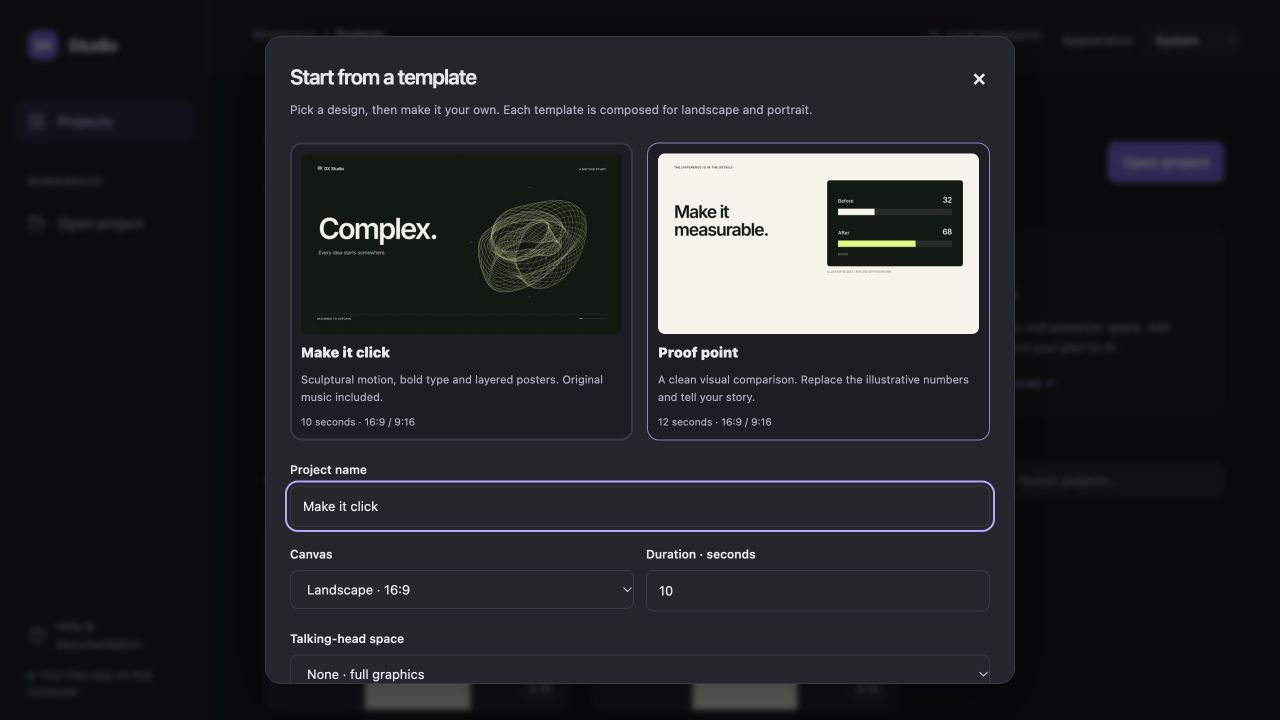
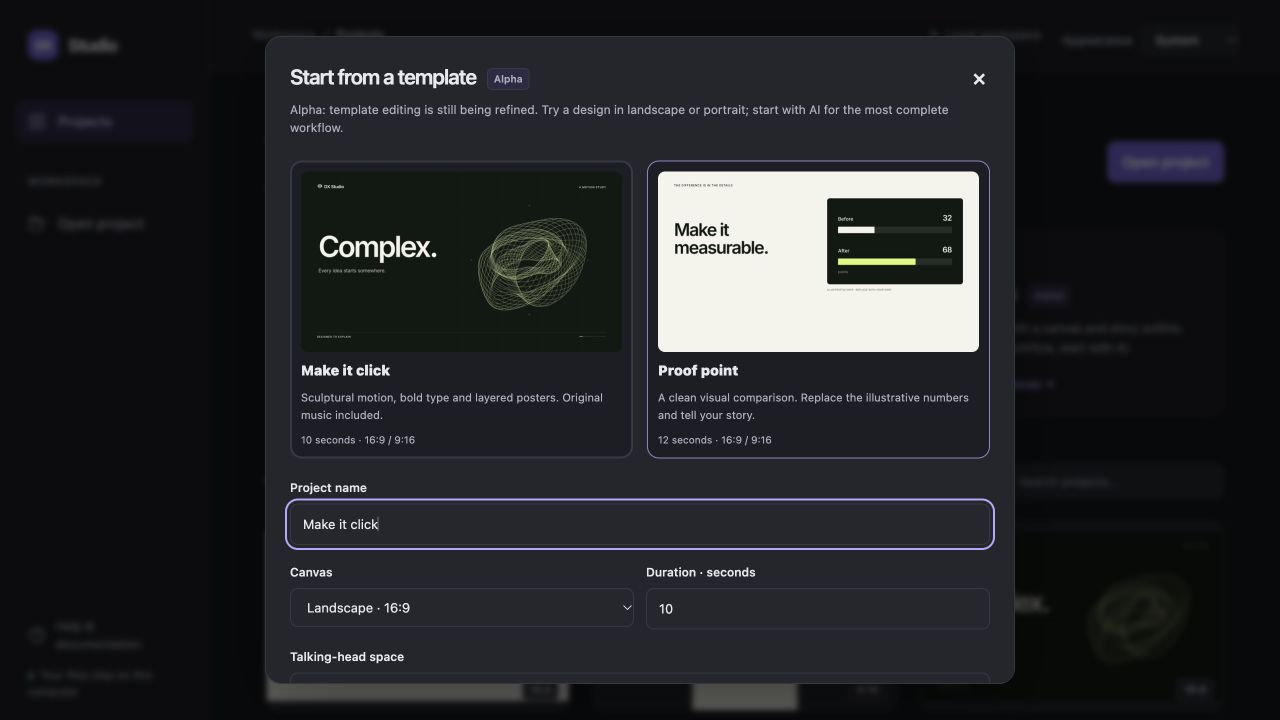
Guide AI-first creation and mark experimental starts Alpha (#22)

diff --git a/dx_studio/home.html b/dx_studio/home.html
@@ -117,10 +117,13 @@ textarea{font:inherit;width:100%;border:1px solid var(--line);border-radius:9px;
 .start-path{display:flex;flex-direction:column;align-items:flex-start;text-align:left;padding:22px;gap:12px;background:var(--panel,#fff);border-radius:14px;font-weight:400;transition:border-color .15s,transform .15s}
 .start-path:hover{border-color:var(--accent);transform:translateY(-2px)}
 .path-number{color:var(--accent);font-size:11px;letter-spacing:.06em}.start-path strong{font-size:16px;font-weight:600;letter-spacing:-.03em}.start-path>span:not(.path-number){font-size:12px;color:var(--muted);line-height:1.65;max-width:28em}.start-path>b{font-size:11px;font-weight:550;margin-top:auto;padding-top:6px;color:var(--accent)}
-#aiStartDialog{width:min(660px,94vw)}.workflow-steps{padding-left:20px;font-size:13px}.workflow-steps li{padding:0 0 18px 7px}.workflow-steps span{display:block;color:var(--muted);font-size:12px;margin-top:5px}#aiStartDialog a{color:var(--accent);font-size:12px}
+#aiStartDialog{width:min(760px,94vw);max-height:90vh;overflow:hidden}#aiStartDialog[open]{display:flex;flex-direction:column}#aiStartDialog>.dialog-header,#aiStartDialog>.ai-intro,#aiStartDialog>.ai-step-nav,#aiStartMessage,#aiStartDialog>.ai-footer{flex-shrink:0}#aiStartDialog>.ai-intro{margin:6px 0 0}#aiStartDialog a{color:var(--accent);font-size:12px}.ai-step{min-height:0;min-width:0;overflow:auto;overflow-x:hidden;scrollbar-gutter:stable;flex:1 1 auto;padding-right:8px}.ai-step p{margin:8px 0 14px}
 #createDialog:has(#templatePicker:not([hidden])){width:min(750px,94vw)}.template-picker{display:grid;grid-template-columns:1fr 1fr;gap:14px;margin:20px 0}.template-card{display:flex;flex-direction:column;gap:8px;text-align:left;padding:10px;border-radius:12px;background:var(--panel,#fff)}.template-card img{width:100%;aspect-ratio:16/9;object-fit:cover;border-radius:7px}.template-card strong{font-size:14px}.template-card span{font-size:11px;font-weight:400;color:var(--muted);line-height:1.6}.template-card small{font-size:10px;font-weight:400;color:var(--muted)}.template-card.selected{border:2px solid var(--accent);padding:9px;background:var(--soft)}
 @media(max-width:850px){.start-paths{grid-template-columns:1fr;gap:10px}.start-path{padding:16px}.start-path>b{padding-top:0}.heading{margin-bottom:30px}}
 
+.alpha-tag,.recommended-tag{display:inline-flex;align-items:center;vertical-align:middle;font-size:10px;font-weight:600;line-height:1.4;letter-spacing:.02em;border-radius:5px;padding:3px 6px;margin-left:7px;white-space:nowrap}.alpha-tag{color:var(--muted);background:var(--soft);border:1px solid var(--line)}.recommended-tag{color:var(--accent);background:var(--soft)}
+.ai-intro{font-size:13px;line-height:1.7;color:var(--muted)}.ai-step-nav{display:grid;grid-template-columns:repeat(4,minmax(0,1fr));gap:6px;margin:16px 0}.ai-step-tab{padding:10px 6px;font-size:11px;font-weight:500;background:transparent;text-align:left}.ai-step-tab[aria-selected=true]{background:var(--soft);border-color:var(--accent);color:var(--accent)}.ai-step-tab span{display:block;color:var(--muted);font-size:10px;margin-bottom:3px}.ai-step h3{font-size:18px;letter-spacing:-.025em;margin:0 0 10px}.ai-step p,.ai-step li{font-size:12px;line-height:1.75}.ai-step ul,.ai-step ol{padding-left:20px}.ai-resource-links{display:flex;flex-wrap:wrap;align-items:center;gap:14px;margin:16px 0}.ai-resource-links a.primary{background:var(--accent);border-radius:8px;padding:9px 12px;color:white!important;text-decoration:none;font-weight:550}.ai-step details{font-size:12px;margin-top:20px}.ai-step details summary{cursor:pointer;color:var(--muted)}.ai-brief-grid{display:grid;grid-template-columns:minmax(0,1fr) minmax(0,1fr);gap:0 14px}.ai-brief-grid>*{min-width:0}.ai-brief-grid input,.ai-brief-grid select{min-width:0}.ai-brief-grid .full{grid-column:1/-1}.ai-brief-grid label{margin-top:12px}.ai-deliverables{padding:14px 16px;border:1px solid var(--line);border-radius:10px;margin:16px 0}.ai-deliverables p{margin:5px 0}.ai-deliverables code{font-size:11px;overflow-wrap:anywhere}.ai-footer{display:flex;align-items:center;justify-content:space-between;gap:12px;padding-top:12px;margin-top:16px;border-top:1px solid var(--line)}.ai-footer .dialog-actions{margin:0;padding:0;flex-wrap:wrap}.ai-step-status{font-size:11px;color:var(--muted)}#aiStartMessage{font-size:12px;min-height:0}#createTitle .alpha-tag{letter-spacing:0;vertical-align:middle}
+@media(max-width:650px){.ai-brief-grid{grid-template-columns:1fr}.ai-step-nav{grid-template-columns:1fr 1fr}.ai-footer{align-items:flex-start;flex-wrap:wrap}}
 [hidden]{display:none!important}
 </style>
 <link rel="stylesheet" href="/theme.css">
@@ -138,20 +141,55 @@ textarea{font:inherit;width:100%;border:1px solid var(--line);border-radius:9px;
 <main>
  <div class="heading"><div><h1>Your projects</h1><p class="muted">A clear starting point for your next story.</p></div><div class="actions"><button class="primary" data-open="openDialog">Open project</button></div></div>
  <section class="start-paths" aria-label="Start a video">
-  <button class="start-path" data-open="aiStartDialog"><span class="path-number">01</span><strong>Create with AI <span aria-hidden="true">↗</span></strong><span>Use the skill in your assistant. Bring the editable project here to finish.</span><b>See the workflow →</b></button>
-  <button class="start-path" id="startTemplates"><span class="path-number">02</span><strong>Start from a template</strong><span>Pick a finished design. Change the words, colours and layers.</span><b>Browse templates →</b></button>
-  <button class="start-path" id="startBlank"><span class="path-number">03</span><strong>Start blank</strong><span>Set the canvas and presenter space. Add titles, then hand your plan to AI.</span><b>Set up your canvas →</b></button>
+  <button class="start-path" data-open="aiStartDialog"><span class="path-number">01</span><strong>Create with AI <span class="recommended-tag">Recommended</span></strong><span>Use the skill in your assistant. Bring the editable project here to finish.</span><b>See the workflow →</b></button>
+  <button class="start-path" id="startTemplates"><span class="path-number">02</span><strong>Start from a template <span class="alpha-tag">Alpha</span></strong><span>Try an editable design. This starting path is still being refined.</span><b>Browse templates →</b></button>
+  <button class="start-path" id="startBlank"><span class="path-number">03</span><strong>Start blank <span class="alpha-tag">Alpha</span></strong><span>Experiment with a canvas and story outline. For the full workflow, start with AI.</span><b>Set up your canvas →</b></button>
  </section>
  <div class="toolbar"><div class="tabs">Recent projects <span class="count" id="projectCount">0</span></div><div class="search"><svg viewBox="0 0 24 24"><circle cx="10.5" cy="10.5" r="6.5"/><path d="m16 16 4 4"/></svg><input type="search" id="search" placeholder="Search projects…" aria-label="Search projects"></div></div>
  <div class="projects" id="projects"></div><div class="message" id="libraryMessage" role="status"></div>
 </main></div></div>
-<dialog id="aiStartDialog" aria-labelledby="aiStartTitle"><div class="dialog-header"><h2 id="aiStartTitle">Create with your AI assistant</h2><button class="close" data-close="aiStartDialog" aria-label="Close AI workflow">×</button></div>
- <p>DX Studio is where you finish the video. Your assistant creates and revises the editable project.</p>
- <ol class="workflow-steps"><li><b>Give your assistant the DX Studio video skill.</b><span>Use a coding environment that can run Python, inspect images and access a project folder you choose.</span></li><li><b>Describe the video and ask for an editable project.</b><span>Specify the audience, duration, format and talking-head space. Bring your script, voice or footage when available.</span></li><li><b>Open the project here. Continue in the same chat.</b><span>For another AI edit, use <b>Continue with AI</b> in the editor. Share its prompt and project folder. DX will notice file changes and offer a reload.</span></li></ol>
- <a href="https://github.com/joyjophin/dx-studio/blob/main/SKILL.md" target="_blank" rel="noopener">Get the skill and resources ↗</a>
- <label for="aiStarterPrompt">A prompt to get started</label><textarea id="aiStarterPrompt" rows="7" readonly>Use the DX Studio video skill to create a 30-second 9:16 explainer about [my topic] for [my audience]. Use [my visual style] and leave [my presenter position, or none] clear. Create the editable project in a folder I can open locally. Deliver the project folder, a portable project ZIP and an MP4. Keep each title, graphic and caption editable. Tell me the full project folder path when it is ready.</textarea>
- <div class="open-note">The same chat keeps creative context; it does not grant file access. Give your assistant access to the project folder, or exchange portable project ZIPs. This editor does not send anything to an AI provider.</div>
- <div id="aiStartMessage" class="message" role="status"></div><div class="dialog-actions"><button id="copyStarterPrompt" type="button">Copy prompt</button><button id="openAIProject" class="primary" type="button">Open my AI project</button></div>
+<dialog id="aiStartDialog" aria-labelledby="aiStartTitle" aria-describedby="aiStartIntro"><div class="dialog-header"><h2 id="aiStartTitle">Create with your AI assistant</h2><button class="close" data-close="aiStartDialog" aria-label="Close AI workflow">×</button></div>
+ <p class="ai-intro" id="aiStartIntro">Your assistant creates the video in its own coding workspace. DX Editor opens the editable project so you can refine it and export. Follow these four steps at your own pace.</p>
+ <div class="ai-step-nav" role="tablist" aria-label="AI creation walkthrough">
+  <button class="ai-step-tab" id="aiTab0" role="tab" aria-controls="aiStep0" aria-selected="true" data-ai-step="0"><span>01</span>Set up</button>
+  <button class="ai-step-tab" id="aiTab1" role="tab" aria-controls="aiStep1" aria-selected="false" data-ai-step="1"><span>02</span>Write your brief</button>
+  <button class="ai-step-tab" id="aiTab2" role="tab" aria-controls="aiStep2" aria-selected="false" data-ai-step="2"><span>03</span>Open &amp; edit</button>
+  <button class="ai-step-tab" id="aiTab3" role="tab" aria-controls="aiStep3" aria-selected="false" data-ai-step="3"><span>04</span>Continue with AI</button>
+ </div>
+ <section class="ai-step" id="aiStep0" role="tabpanel" aria-labelledby="aiTab0">
+  <h3>Give your assistant the kit</h3>
+  <p>Use an assistant workspace that can <b>run Python, inspect rendered images, and read/write a project folder you share</b>. A text-only chat can help write a script, but cannot verify a finished video.</p>
+  <div class="ai-resource-links"><a class="primary" href="https://github.com/joyjophin/dx-studio/releases/latest/download/dx-studio-video.zip">Download the skill ZIP</a><a href="https://github.com/joyjophin/dx-studio/blob/main/SKILL.md" target="_blank" rel="noopener">Read the skill ↗</a></div>
+  <ol><li>Extract the ZIP and keep its resources together. If your assistant supports skills, add it using that assistant’s skill setup.</li><li>Otherwise, share the extracted kit folder and ask your assistant to read <b>SKILL.md</b> and its linked resources.</li><li>Choose a project folder your assistant can write to. The kit needs Python, Cairo and FFmpeg; ask the assistant to follow <b>docs/INSTALL.md</b> in its workspace.</li></ol>
+  <details><summary>How do I check whether my assistant can do this?</summary><p>Ask: “Can you run Python, inspect rendered images, and read/write the project folder I share? Use the DX Studio kit and tell me if a dependency is missing.” Sharing this chat alone does not grant file access.</p></details>
+ </section>
+ <section class="ai-step" id="aiStep1" role="tabpanel" aria-labelledby="aiTab1" hidden>
+  <h3>Start with a useful brief</h3><p>Fill in what you know. This builds a prompt to copy into your assistant; DX Studio does not generate or send it for you.</p>
+  <div class="ai-brief-grid">
+   <div class="full"><label for="aiTopic">What is the video about?</label><input id="aiTopic" placeholder="e.g. Why password managers make signing in safer" maxlength="1000"></div>
+   <div><label for="aiAudience">Who is it for?</label><input id="aiAudience" value="Curious beginners" maxlength="300"></div>
+   <div><label for="aiDuration">Length · seconds</label><input id="aiDuration" type="number" required value="30" min="5" max="3600" step="1"></div>
+   <div><label for="aiFormat">Format</label><select id="aiFormat"><option value="9:16">Portrait · 9:16</option><option value="16:9">Landscape · 16:9</option></select></div>
+   <div><label for="aiPresenter">Talking-head space</label><select id="aiPresenter"><option value="none">None · full graphics</option><option value="bottom-left">Bottom-left corner</option><option value="bottom-right">Bottom-right corner</option><option value="left-half">Left half</option><option value="right-half">Right half</option><option value="bottom-band">Bottom band</option></select></div>
+  </div>
+  <details><summary>Style, narration and source material</summary><label for="aiStyle">Visual direction</label><input id="aiStyle" placeholder="e.g. Clean editorial graphics with bold type" maxlength="1000"><label for="aiAssets">What will you provide?</label><select id="aiAssets"><option value="none">No recordings or footage yet</option><option value="voice">My recorded narration</option><option value="media">My script, screenshots or footage</option></select><p>Attach those files in your assistant’s workspace. This walkthrough does not upload them.</p></details>
+  <details class="ai-prompt-preview"><summary>Preview or edit your starter prompt</summary><label for="aiStarterPrompt">Your starter prompt · editable</label><textarea id="aiStarterPrompt" rows="8" aria-describedby="aiPromptHint"></textarea><p id="aiPromptHint">Copy this into your assistant after sharing the kit. You can edit the prompt directly; changing the brief fields rebuilds it.</p></details>
+ </section>
+ <section class="ai-step" id="aiStep2" role="tabpanel" aria-labelledby="aiTab2" hidden>
+  <h3>Bring back the project, then make it yours</h3>
+  <p>Wait for your assistant to finish and ask it for the full project folder path. You need the <b>editable project</b> as well as the video.</p>
+  <div class="ai-deliverables"><p><b>Editable folder</b> — contains <code>project.json</code>, the scene source and assets. Saved edits may also appear in <code>settings.json</code>.</p><p><b>MP4</b> — watch and share the finished video.</p><p><b>Portable project ZIP</b> — move the editable project between workspaces or computers.</p></div>
+  <ol><li>If you receive a ZIP, extract it first and follow its <b>OPEN-ME.md</b> for the matching engine.</li><li>Choose <b>Open my AI project</b> below and paste the path to the folder containing <b>project.json</b>. In a portable bundle, that is the inner <b>project/</b> folder.</li><li>Change words in <b>Text</b> or <b>Captions</b>, select a layer to move/scale/hide it, and adjust timing on the timeline.</li><li>Wait for <b>All changes saved</b>, then use <b>Export → Build this export</b> for the updated MP4.</li></ol>
+  <details><summary>I only received an MP4, or my project will not open</summary><p>An MP4 cannot restore separate editable layers. Ask the assistant for the DX Studio project folder or portable project ZIP. Check that you selected the folder containing project.json, not the ZIP, MP4 or kit folder. If a project uses a different engine, follow its OPEN-ME.md.</p></details>
+ </section>
+ <section class="ai-step" id="aiStep3" role="tabpanel" aria-labelledby="aiTab3" hidden>
+  <h3>Keep the same chat for the next revision</h3>
+  <ol><li>In DX Editor, wait for <b>All changes saved</b> and choose <b>Continue with AI</b>.</li><li>Describe the change and choose <b>Prepare AI handoff</b>. Copy its follow-up prompt into the <b>same chat</b>.</li><li>With access to the <b>same local project folder</b>, your assistant can read your saved edits and update the source files.</li><li>After the assistant finishes, return to DX Editor and choose <b>Review file updates → Reload AI changes</b>. Then review and export the revised video.</li></ol>
+  <div class="open-note"><b>No shared folder access?</b> Attach the JSON handoff and <b>Download full project</b> ZIP in your assistant’s workspace. Ask for an updated editable project and open the returned folder here. The same chat preserves creative context; it does not automatically sync files.</div>
+  <p>DX Studio does not connect to an AI provider or silently replace your edit. You choose what to share and when to load revised files.</p>
+ </section>
+ <div id="aiStartMessage" class="message" role="status" aria-live="polite"></div>
+ <div class="ai-footer"><span id="aiStepStatus" class="ai-step-status" role="status" aria-live="polite">Step 1 of 4</span><div class="dialog-actions"><button id="aiPrevious" type="button" hidden>Back</button><button id="copyStarterPrompt" class="primary" type="button" hidden>Copy starter prompt</button><button id="aiNext" class="primary" type="button">Next: write your brief</button><button id="openAIProject" class="primary" type="button" hidden>Open my AI project</button></div></div>
 </dialog>
 <dialog id="createDialog" aria-labelledby="createTitle"><div class="dialog-header"><h2 id="createTitle">Start blank</h2><button class="close" data-close="createDialog" aria-label="Close project setup">×</button></div><p id="createDescription">Set your constraints. Add titles and notes in the editor, then prepare an AI handoff.</p><form id="createForm">
  <div id="templatePicker" class="template-picker" role="group" aria-label="Video templates" hidden></div><input id="template" type="hidden" value="blank">
@@ -167,7 +205,7 @@ textarea{font:inherit;width:100%;border:1px solid var(--line);border-radius:9px;
 const $=s=>document.querySelector(s);let projects=[],templates=[],createMode="blank";
 async function api(path,body){const response=await fetch(path,body===undefined?{}:{method:'POST',headers:{'Content-Type':'application/json','X-DX-Studio-Client':'1'},body:JSON.stringify(body)});const data=await response.json();if(!response.ok)throw new Error(data.error||'Could not complete this action');return data;}
 function node(tag,cls,text){const n=document.createElement(tag);if(cls)n.className=cls;if(text)n.textContent=text;return n;}
-function openDialog(id){$('#'+id).showModal();$('#'+id+' input')?.focus();}
+function openDialog(id){if(id==='aiStartDialog')showAIStep(0);$('#'+id).showModal();if(id!=='aiStartDialog')$('#'+id+' input')?.focus();}
 for(const button of document.querySelectorAll('[data-open]'))button.onclick=()=>openDialog(button.dataset.open);
 for(const button of document.querySelectorAll('[data-close]'))button.onclick=()=>$('#'+button.dataset.close).close();
 function canvasRatio(width,height){let a=width,b=height;while(b){const r=a%b;a=b;b=r;}return(width/a)+':'+(height/a);}
@@ -185,10 +223,28 @@ function render(){
 }
 $('#search').oninput=render;
 async function copyPrompt(text,message){try{await navigator.clipboard.writeText(text);message.textContent='Prompt copied. Paste it into your AI chat.';}catch(_){message.textContent='Select the prompt text and copy it into your AI chat.';}}
-$('#copyStarterPrompt').onclick=()=>copyPrompt($('#aiStarterPrompt').value,$('#aiStartMessage'));
+let AI_STEP=0;
+function showAIStep(index){
+ AI_STEP=Math.max(0,Math.min(3,index));$('#aiStartMessage').textContent='';
+ for(let i=0;i<4;i++){const active=i===AI_STEP;$('#aiStep'+i).hidden=!active;if(active)$('#aiStep'+i).scrollTop=0;$('#aiTab'+i).setAttribute('aria-selected',String(active));$('#aiTab'+i).tabIndex=active?0:-1;}
+ $('#aiPrevious').hidden=AI_STEP===0;$('#copyStarterPrompt').hidden=AI_STEP!==1;$('#aiNext').hidden=AI_STEP===3;$('#openAIProject').hidden=AI_STEP<2;
+ $('#aiNext').classList.toggle('primary',AI_STEP===0);$('#aiNext').textContent=['Next: write your brief','Next: open your project','Next: AI revisions'][AI_STEP]||'Next';$('#aiStepStatus').textContent='Step '+(AI_STEP+1)+' of 4';
+}
+function buildStarterPrompt(){
+ const topic=$('#aiTopic').value.trim()||'[your topic]',audience=$('#aiAudience').value.trim()||'[your audience]',duration=+$('#aiDuration').value;
+ const length=Number.isFinite(duration)&&duration>=5&&duration<=3600?Math.round(duration):30;
+ const presenter=$('#aiPresenter').value,style=$('#aiStyle').value.trim()||'a polished visual style suited to this subject';
+ const assets={none:'I have no recordings yet. Make a voice-free first version with clear on-screen text; do not download voice models unless I ask.',voice:'Use the narration recording I attach. Time the scenes and captions to the actual audio.',media:'Use the script, screenshots or footage I attach. Tell me if a required source file is missing.'}[$('#aiAssets').value];
+ $('#aiStarterPrompt').value=`Use the DX Studio video skill and bundled resources to create a ${length}-second ${$('#aiFormat').value} explainer about ${topic} for ${audience}.\n\nRead SKILL.md and follow docs/INSTALL.md in your coding workspace. Create the editable project in a folder I can open locally, or return a portable project ZIP if we do not share a folder.\n\nVisual direction: ${style}. ${presenter==='none'?'Use the full graphics area.':'Reserve '+presenter.replaceAll('-',' ')+' space for my talking head and keep essential graphics and captions out of it.'} For portrait, keep the main visual groups and captions horizontally centred within their available safe area.\n\nOpen with a clear hook, demonstrate one central idea and deliver a useful takeaway. Keep each title, graphic and caption editable as named layers. ${assets}\n\nInspect rendered frames, check the project and render the complete MP4. Deliver the MP4, editable project folder and portable project ZIP. Tell me the full path to the folder containing project.json and which files I should open in DX Editor. Do not return only a flattened video or claim a render you could not verify.`;
+}
+for(const tab of document.querySelectorAll('[data-ai-step]')){tab.onclick=()=>showAIStep(+tab.dataset.aiStep);tab.onkeydown=event=>{if(!['ArrowLeft','ArrowRight','Home','End'].includes(event.key))return;event.preventDefault();const next=event.key==='Home'?0:event.key==='End'?3:(AI_STEP+(event.key==='ArrowRight'?1:3))%4;showAIStep(next);$('#aiTab'+next).focus();};}
+$('#aiPrevious').onclick=()=>showAIStep(AI_STEP-1);$('#aiNext').onclick=()=>showAIStep(AI_STEP+1);
+for(const id of ['aiTopic','aiAudience','aiDuration','aiFormat','aiPresenter','aiStyle','aiAssets'])$('#'+id).addEventListener('input',buildStarterPrompt);
+buildStarterPrompt();
+$('#copyStarterPrompt').onclick=()=>{if($('#aiDuration').reportValidity())copyPrompt($('#aiStarterPrompt').value,$('#aiStartMessage'));};
 $('#openAIProject').onclick=()=>{$('#aiStartDialog').close();openDialog('openDialog');};
 function setTemplate(id){const item=templates.find(t=>t.id===id);if(!item)return;const old=templates.find(t=>t.id===$('#template').value);if(!$('#name').value||$('#name').value===old?.name)$('#name').value=item.name;$('#template').value=id;$('#durationInput').value=item.duration;for(const card of document.querySelectorAll('[data-template]')){const chosen=card.dataset.template===id;card.classList.toggle('selected',chosen);card.setAttribute('aria-pressed',String(chosen));}}
-function showCreate(mode){createMode=mode;$('#createMessage').textContent='';$('#createButton').disabled=false;$('#templatePicker').hidden=mode!=='template';$('#durationInput').disabled=mode==='template';$('#format').querySelector('option[value="custom"]').hidden=mode==='template';$('#format').querySelector('option[value="1:1"]').hidden=mode==='template';if(mode==='template'&&!['16:9','9:16'].includes($('#format').value))$('#format').value='16:9';$('#createTitle').textContent=mode==='template'?'Start from a template':'Start blank';$('#createDescription').textContent=mode==='template'?'Pick a design, then make it your own. Each template is composed for landscape and portrait.':'Set your constraints. Add titles and notes in the editor, then prepare an AI handoff.';$('#createButton').textContent=mode==='template'?'Use this template':'Create blank project';if(mode==='template')setTemplate(templates[0]?.id);else{$('#template').value='blank';$('#name').value='';$('#durationInput').value=30;}$('#format').onchange();openDialog('createDialog');}
+function showCreate(mode){createMode=mode;$('#createMessage').textContent='';$('#createButton').disabled=false;$('#templatePicker').hidden=mode!=='template';$('#durationInput').disabled=mode==='template';$('#format').querySelector('option[value="custom"]').hidden=mode==='template';$('#format').querySelector('option[value="1:1"]').hidden=mode==='template';if(mode==='template'&&!['16:9','9:16'].includes($('#format').value))$('#format').value='16:9';$('#createTitle').replaceChildren(document.createTextNode((mode==='template'?'Start from a template':'Start blank')+' '),node('span','alpha-tag','Alpha'));$('#createDescription').textContent=mode==='template'?'Alpha: template editing is still being refined. Try a design in landscape or portrait; start with AI for the most complete workflow.':'Alpha: blank-project authoring is still being refined. Set up a canvas and outline, or start with AI for the most complete workflow.';$('#createButton').textContent=mode==='template'?'Use this template':'Create blank project';if(mode==='template')setTemplate(templates[0]?.id);else{$('#template').value='blank';$('#name').value='';$('#durationInput').value=30;}$('#format').onchange();openDialog('createDialog');}
 $('#startTemplates').onclick=()=>showCreate('template');$('#startBlank').onclick=()=>showCreate('blank');
 $('#format').onchange=()=>{$('#customCanvas').hidden=$('#format').value!=='custom';};
 function renderTemplates(){const root=$('#templatePicker');root.replaceChildren();for(const item of templates){const button=node('button','template-card');button.type='button';button.dataset.template=item.id;const image=node('img');image.src='/template-preview/'+item.thumbnail;image.alt=item.name+' template preview';button.append(image,node('strong','',item.name),node('span','',item.description),node('small','',item.duration+' seconds · 16:9 / 9:16'));button.onclick=()=>setTemplate(item.id);root.append(button);}}

diff --git a/dx_studio/__init__.py b/dx_studio/__init__.py
@@ -1,6 +1,6 @@
 """DX Studio: author editable motion graphics. Public scene API loads lazily."""
 from importlib import import_module
-__version__ = "1.1.0"
+__version__ = "1.1.1"
 _EXPORTS = {
     **{k:'core' for k in ['PI','WHITE','BLACK','clamp','eo','eio','ei','lin','P','lerp','mixc','window','back_ease','hexc','hex_of']},
     **{k:'text' for k in ['FONTS','shape','tw','text','ktext']},

diff --git a/docs/AI_WORKFLOW.md b/docs/AI_WORKFLOW.md
@@ -11,6 +11,10 @@ project folder. It does not send prompts to a provider or connect to a chat acco
 
 ![The three starting paths on the actual dashboard](images/workflow-dashboard.jpg)
 
+**Recommended for launch: Create with AI.** Template and blank-project starts are
+**Alpha**: available to experiment with, while their authoring experience is still
+being refined. Alpha describes these two starting paths, not the project file format.
+
 ## 1. Create with AI, then keep the same chat
 
 Download the repository or release, install DX Studio using [INSTALL](INSTALL.md),
@@ -18,6 +22,26 @@ and give your assistant the release's `dx-studio-video.zip` or repository
 [SKILL.md](../SKILL.md). Skill installation differs by assistant; loading a Markdown
 file is context, not permission to read your computer. Use an environment that can
 run Python, inspect images and access a folder you explicitly share with it.
+
+Choose **Create with AI** on the dashboard for the four-step walkthrough:
+
+1. **Set up:** download the skill ZIP, keep its resources together, and share it
+   with an assistant that has coding tools and access to a project folder. Skill
+   installation follows the assistant's own setup; otherwise ask it to read SKILL.md.
+2. **Write your brief:** enter the topic, audience, duration, format and presenter
+   space. Optional style/source choices build an editable starter prompt. Copy it
+   into your assistant; DX does not generate a video or submit the prompt itself.
+3. **Open & edit:** request an editable folder, MP4 and portable project ZIP. Open
+   the folder containing project.json, not an MP4 or ZIP. The walkthrough explains
+   extraction, matching-engine setup, basic editor changes and export.
+4. **Continue with AI:** keep the same chat, prepare the editor handoff, then review
+   source updates. Use the JSON plus portable ZIP when folders are not shared.
+
+![The guided AI brief builder in the actual editor](images/ai-onboarding-brief.jpg)
+
+The steps are navigation, not automatic checks of assistant installation or video
+completion. Your typed brief stays in the dialog during this visit; it is not sent
+to a provider or saved as a project. Editing brief fields rebuilds the prompt.
 
 Start with a concrete brief:
 
@@ -50,7 +74,7 @@ A chat without local folder access cannot update the editor automatically. Attac
 the JSON **and Download full project** ZIP, ask for an updated editable project,
 and open its returned folder. A text-only assistant cannot verify a render.
 
-## 2. Start from a template
+## 2. Start from a template · Alpha
 
 Choose **Start from a template** on the dashboard:
 
@@ -71,7 +95,7 @@ larger changes. Each template is copied into a new project; the original stays i
 
 ![Editable template gallery](images/workflow-templates.jpg)
 
-## 3. Start blank, then hand off your skeleton
+## 3. Start blank, then hand off your skeleton · Alpha
 
 Choose **Start blank**, then set a name, canvas, duration and presenter reservation.
 Presets include 16:9, 9:16 and square; custom even dimensions from 64 to 8192 pixels

diff --git a/README.md b/README.md
@@ -41,7 +41,7 @@ protected assistant revisions with frame comparisons, actual presenter clips and
 scene layouts, editable explanation blocks, portable fonts/logos/templates and
 range exports with profiles, SRT and sampled quality review. Speech recognition is
 optional; timed-word import needs no model or account.
-[Download v1.1](https://github.com/joyjophin/dx-studio/releases/tag/v1.1.0) ·
+[Download v1.1](https://github.com/joyjophin/dx-studio/releases/tag/v1.1.1) ·
 [First project](docs/QUICKSTART.md) · [What changed](CHANGELOG.md).
 
 ## A look around
@@ -73,7 +73,7 @@ There is no chat or prompt panel. [Workspace preferences →](docs/VIEW.md)
 
 Project cards keep your work within reach. Open a folder from your assistant,
 continue a recent project, or choose one of three starting paths:
-**Create with AI**, **Start from a template**, or **Start blank**.
+**Create with AI** (recommended), **Start from a template** (Alpha), or **Start blank** (Alpha).
 [Choose your workflow →](docs/AI_WORKFLOW.md)
 [Editor layout →](docs/EDITOR_LAYOUT.md) · [Recreate these captures →](docs/GALLERY.md)
 
@@ -133,6 +133,11 @@ up a blank canvas and hand its titles, timing and constraints to your assistant.
 
 ## Create with your assistant
 
+Start with **Create with AI** on the dashboard for a four-step walkthrough and
+an editable prompt builder. It covers sharing the kit, defining your brief,
+opening the returned project, and continuing revisions in the same chat. Template
+and blank-project starts remain **Alpha** while their authoring experience develops.
+
 Give the assistant [SKILL.md](SKILL.md), or use the `dx-studio-video.zip` skill bundle
 from a release. The skill supports hooks, visual proof, narration, caption pacing,
 render checks and a project you can finish in the editor.
@@ -160,7 +165,7 @@ craft can help attention and understanding; it cannot guarantee views.
 
 ## Get started
 
-Download the **source ZIP** from [the v1.1 release](https://github.com/joyjophin/dx-studio/releases/tag/v1.1.0), extract it, and follow the [platform setup guide](docs/INSTALL.md) for Python, Cairo and FFmpeg. Then:
+Download the **source ZIP** from [the v1.1 release](https://github.com/joyjophin/dx-studio/releases/tag/v1.1.1), extract it, and follow the [platform setup guide](docs/INSTALL.md) for Python, Cairo and FFmpeg. Then:
 
 - **macOS:** open **Launch DX Studio.command**.
 - **Linux / WSL2:** run `bash launch.sh` inside the extracted folder.

diff --git a/docs/QUICKSTART.md b/docs/QUICKSTART.md
@@ -2,9 +2,11 @@
 
 After [installation](INSTALL.md), run the launcher and open the dashboard.
 
-1. Choose **Create with AI**, **Start from a template**, or **Start blank**.
-   For a complete editable starting point, pick **Make it click** or **Proof point**
-   from the template gallery, choose landscape/portrait and optional presenter space.
+1. Choose **Create with AI**, the recommended launch workflow. Its four-step
+   walkthrough helps set up the kit, build a starter prompt, open the returned
+   editable project and continue AI revisions. **Start from a template** and
+   **Start blank** are marked **Alpha** while those authoring paths are refined.
+   To try a template, choose Make it click or Proof point and a format/presenter layout.
 2. In **Text**, change the opening headline. Click a canvas layer to move, scale,
    hide or retime it in the inspector. Use Undo to compare your change.
 3. In **Media**, add your images or footage. In **Audio → Voice**, add your recorded

diff --git a/docs/INSTALL.md b/docs/INSTALL.md
@@ -36,7 +36,7 @@ DX Studio does not install system packages or request administrator access itsel
 
 ## 2. Download and open
 
-Download **dx-studio-1.1.0-source.zip** from the GitHub release and extract it.
+Download **dx-studio-1.1.1-source.zip** from the GitHub release and extract it.
 On macOS, open **Launch DX Studio.command**. On Linux/WSL2, run:
 
 ```sh
@@ -67,7 +67,7 @@ python -m dx_studio edit
 ```
 
 Developers can install `'.[dev]'` for checks. To use a release wheel, replace the
-install line with `python -m pip install /path/to/dx_studio-1.1.0-py3-none-any.whl`.
+install line with `python -m pip install /path/to/dx_studio-1.1.1-py3-none-any.whl`.
 The wheel includes the editor, engine, templates and fonts; use the skill ZIP or
 source ZIP for assistant instructions and production scripts. No PyPI publication
 is implied. A portable project bundle has its own matching `engine/` installation.

diff --git a/CHANGELOG.md b/CHANGELOG.md
@@ -1,5 +1,16 @@
 # Changelog
 
+## 1.1.1 — 2026-10-19
+
+- Make Create with AI the recommended launch workflow. Mark template and blank
+  project starts as Alpha on their dashboard cards, setup dialogs and guides.
+- Replace the initial instruction wall with a four-step walkthrough: kit setup,
+  editable brief/prompt builder, project opening/editing/export, and AI revisions.
+- Link the downloadable skill ZIP and explain coding/file-access prerequisites,
+  expected deliverables, the inner project folder and the MP4-only recovery path.
+- Clarify shared-folder update review and JSON/portable-ZIP exchange when an
+  assistant cannot access local files. No automatic provider connection is implied.
+
 ## 1.1.0 — 2026-10-19
 
 - Three explicit dashboard starting paths: create with an external AI assistant,

diff --git a/docs/V1_LAUNCH.md b/docs/V1_LAUNCH.md
@@ -3,6 +3,10 @@
 The first full product launch is v1.0.0. Earlier 0.x releases remain available.
 Project format stays at version 1; existing projects retain their explicit layouts.
 
+For the public launch, lead with **Create with AI** and its guided project handoff.
+**Start from a template** and **Start blank** are labelled **Alpha** while their
+authoring experience is refined; they are not presented as equally mature paths.
+
 - [x] Guided setup, launcher, dependency diagnostics and an editable first project.
 - [x] Source-aware visual clip trim/split and persistent selection groups.
 - [x] Reviewed folder relinking, complete portable bundles and compatibility guidance.

diff --git a/docs/RELEASING.md b/docs/RELEASING.md
@@ -23,7 +23,7 @@ python scripts/smoke_test.py
 python scripts/release_journey.py --output /tmp/dx-release-journey
 python scripts/benchmark_preview.py --output /tmp/dx-preview.json
 python -m build
-python scripts/package_release.py --output ../release-artifacts/1.1.0 --distributions dist
+python scripts/package_release.py --output ../release-artifacts/1.1.1 --distributions dist
 ```
 
 Package from the reviewed release commit. `SHA256SUMS` covers the source ZIP,
